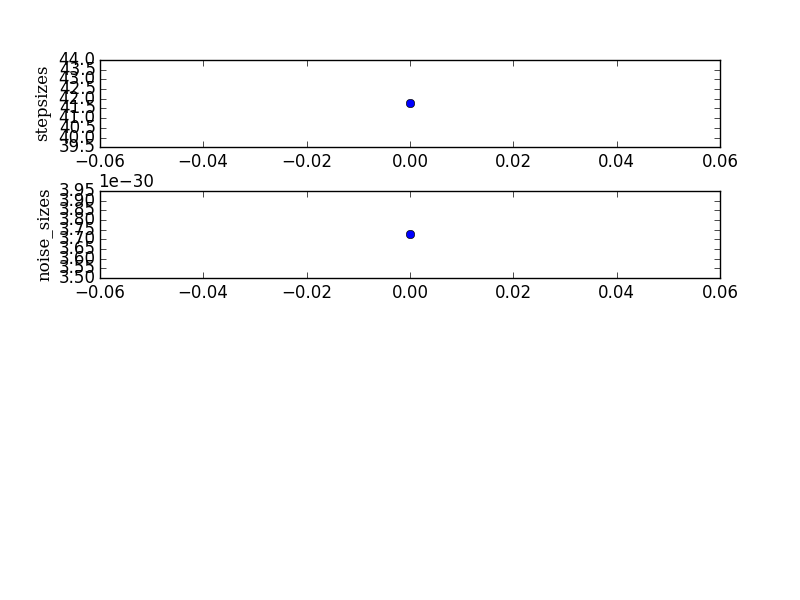
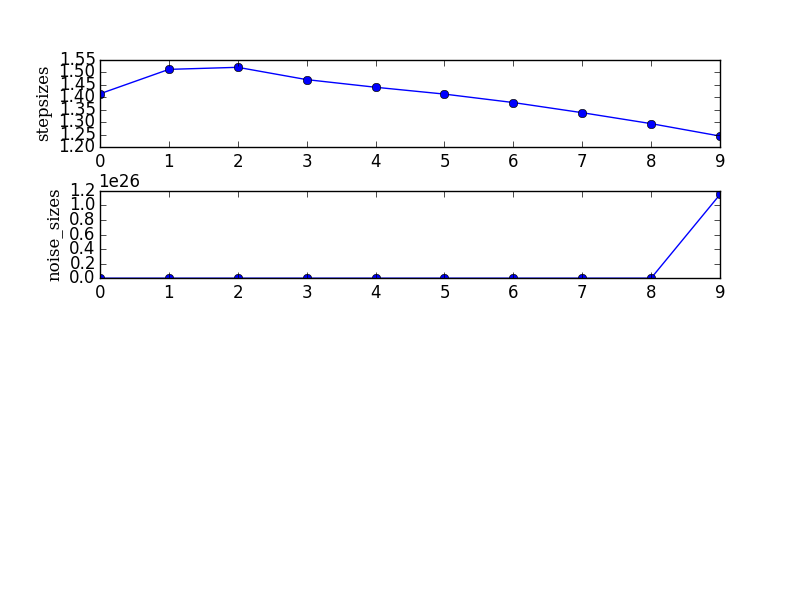
Tweaked experiment

diff --git a/experiments/3-gen-images/3/main.py b/experiments/3-gen-images/3/main.py
@@ -52,23 +52,28 @@ if __name__ == '__main__':
 
     t0 = time.time()
 
-    num_samples = 15
-    num_langevin_steps = 1
-    num_sampler_optimization_steps = 20
+    num_samples = 20
+    num_langevin_steps = 10
+    num_sampler_optimization_steps = 100
     sampler_learn_rate = 0.001
 
     layer_sizes = [784, 200, 100, 10]
     L2_reg = 1.0
     D = 784
 
-    init_init_stddev_scale = 0.0001
-    init_langevin_stepsize = 0.0001
-    init_langevin_noise_size = 0.0001
+    init_init_stddev_scale = 0.000001
+    init_langevin_stepsize = 0.01
+    init_langevin_noise_size = 0.000001
+
+    prior_relax = 0.01
 
     # train_mnist_model()   # Comment after running once.
 
     with open('mnist_models.pkl') as f:
         trained_weights, all_mean, all_cov = pickle.load(f)
+
+    # Regularize all_cov
+    all_cov = all_cov + prior_relax * np.eye(D)
 
     N_weights, predict_fun, loss_fun, frac_err, nn_like = make_nn_funs(layer_sizes, L2_reg)
 
@@ -102,6 +107,7 @@ if __name__ == '__main__':
         samples, likelihood_estimates, entropy_estimates = sample_and_run_langevin(sampler_params, rs, num_samples)
         #matplotlib.image.imsave("optimizing", (samples[0,:].reshape((28,28))).value)
         #marginal_likelihood_estimates
+        print "mean loglik:", np.mean(likelihood_estimates), " mean entropy:", np.mean(entropy_estimates)
         fig = plt.figure(1)
         fig.clf()
         ax = fig.add_subplot(111)
